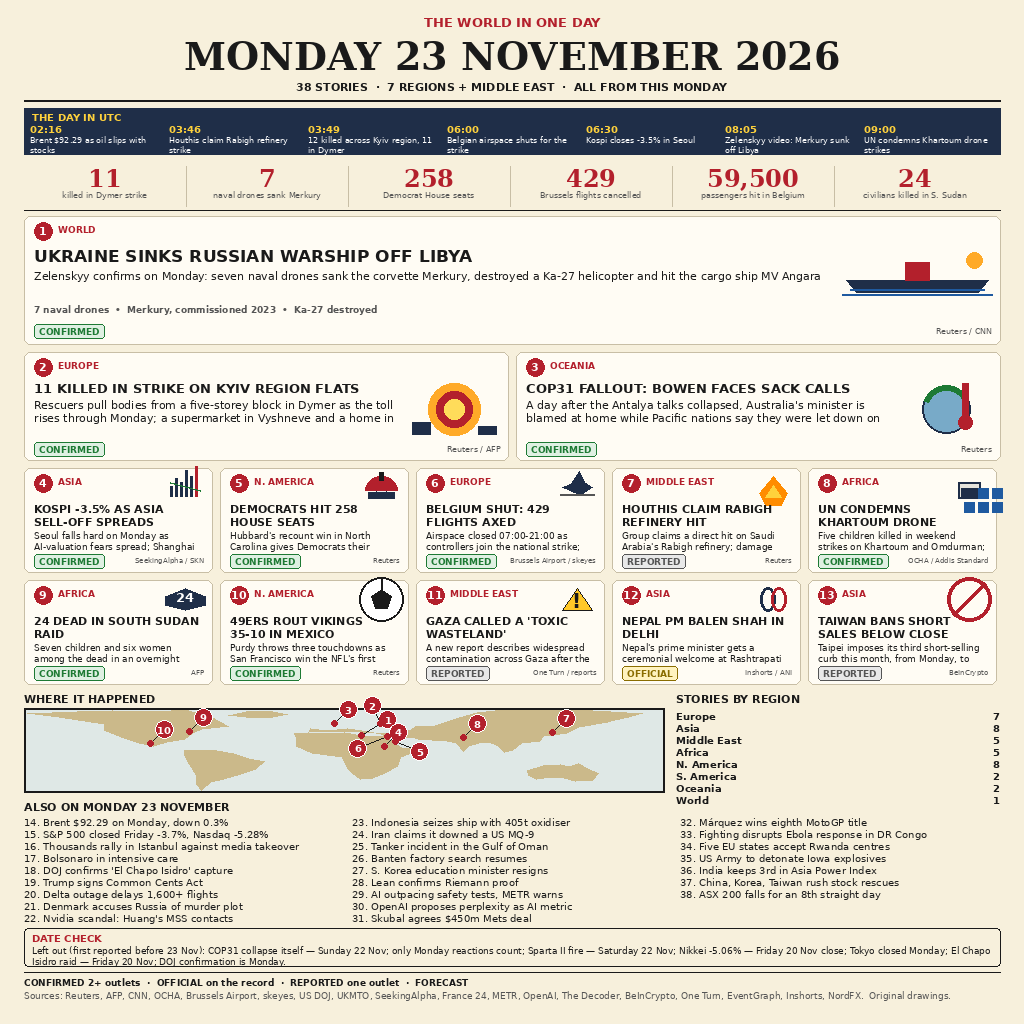
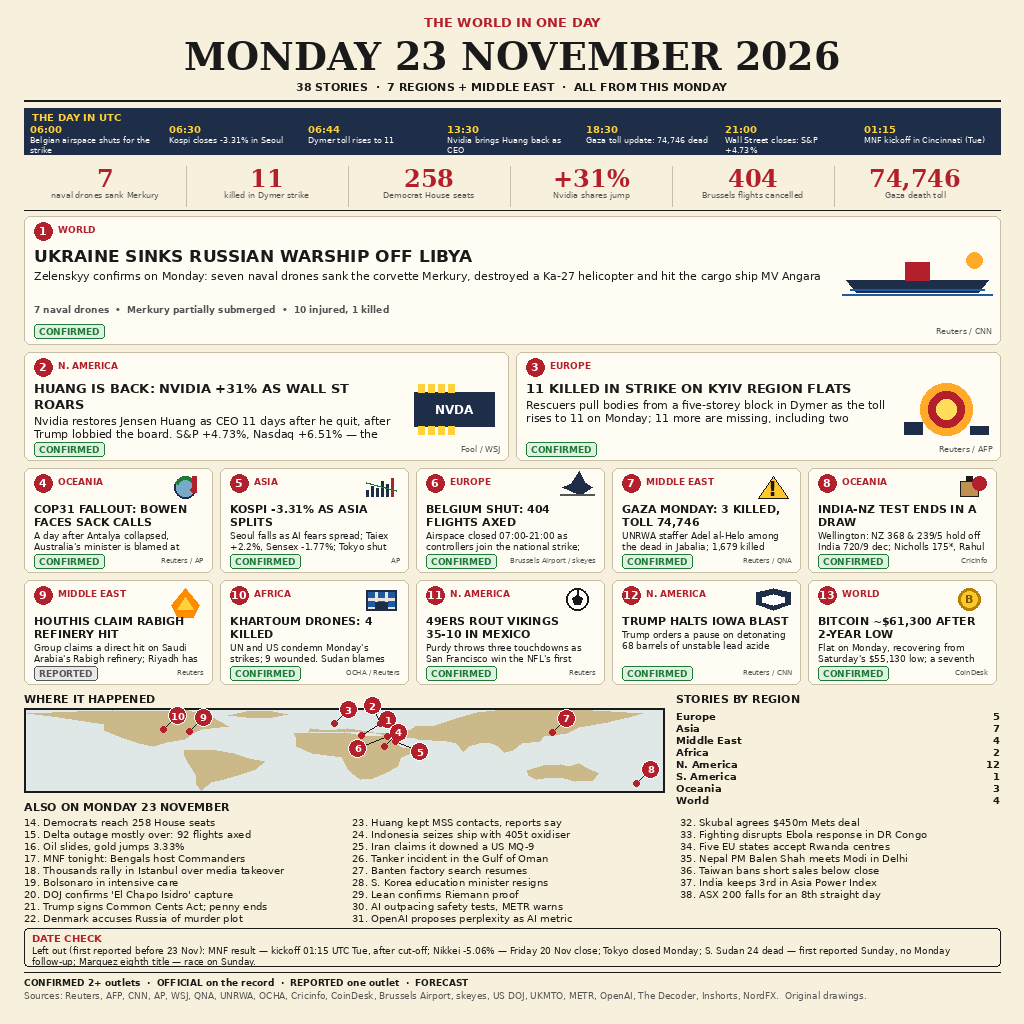
Final: 23 Nov 2026, 38 stories full-day, winner-template entry

diff --git a/render.py b/render.py
@@ -90,17 +90,20 @@ def art(draw, kind, box):
         draw.rectangle([x0 + 4, y1 - 14, x0 + 22, y1 - 2], fill=NAVY)
         draw.rectangle([x1 - 22, y1 - 10, x1 - 4, y1 - 2], fill=NAVY)
     elif kind == "globe":
-        draw.ellipse([cx - 24, cy - 24, cx + 24, cy + 24], fill=(120, 170, 200))
-        draw.ellipse([cx - 24, cy - 24, cx + 24, cy + 24], outline=NAVY, width=2)
-        draw.arc([cx - 24, cy - 24, cx + 24, cy + 24], 200, 340, fill=GREEN, width=6)
-        draw.rectangle([cx + 16, cy - 26, cx + 22, cy + 10], fill=RED)
-        draw.ellipse([cx + 12, cy + 6, cx + 26, cy + 20], fill=RED)
+        r = min(w, h) // 2 - 2
+        draw.ellipse([cx - r, cy - r, cx + r, cy + r], fill=(120, 170, 200))
+        draw.ellipse([cx - r, cy - r, cx + r, cy + r], outline=NAVY, width=2)
+        draw.arc([cx - r, cy - r, cx + r, cy + r], 200, 340, fill=GREEN, width=4)
+        draw.rectangle([cx + r - 4, cy - r, cx + r, cy + r // 2], fill=RED)
+        draw.ellipse([cx + r // 2, cy, cx + r, cy + r // 2], fill=RED)
     elif kind == "chart":
         bars = [10, 18, 14, 26, 20, 30]
+        scale = (h - 8) / 30.0
         bw = w // 7
         for i, b in enumerate(bars):
+            bh = max(2, int(b * scale))
             bx = x0 + 4 + i * bw
-            draw.rectangle([bx, y1 - 4 - b, bx + bw - 3, y1 - 4],
+            draw.rectangle([bx, y1 - 4 - bh, bx + bw - 3, y1 - 4],
                            fill=RED if i == len(bars) - 1 else NAVY)
         draw.line([(x0 + 4, y0 + 8), (x1 - 4, y0 + 16)], fill=GREEN, width=2)
     elif kind == "capitol":
@@ -121,25 +124,51 @@ def art(draw, kind, box):
         draw.polygon([(cx, cy - 2), (cx + 8, cy + 10), (cx - 8, cy + 10)],
                      fill=(255, 210, 60))
     elif kind == "building":
-        draw.rectangle([x0 + 8, y0 + 8, x1 - 8, y1 - 2], fill=(230, 228, 220),
+        draw.rectangle([x0 + 4, y0 + 4, x1 - 4, y1 - 2], fill=(230, 228, 220),
                        outline=NAVY, width=2)
+        gw, gh = (w - 12) // 3, (h - 12) // 2
         for i in range(3):
             for j in range(2):
-                draw.rectangle([x0 + 14 + i * 14, y0 + 14 + j * 14,
-                                x0 + 24 + i * 14, y0 + 24 + j * 14], fill=BLUE)
-        draw.rectangle([cx - 8, y1 - 12, cx + 8, y1 - 2], fill=NAVY)
+                wx, wy = x0 + 6 + i * (gw + 2), y0 + 6 + j * (gh + 2)
+                draw.rectangle([wx, wy, wx + gw - 2, wy + gh - 2], fill=BLUE)
+        draw.rectangle([cx - 6, y1 - 10, cx + 6, y1 - 2], fill=NAVY)
     elif kind == "shield":
-        draw.polygon([(cx, y0 + 2), (cx + 20, y0 + 10), (cx + 20, cy + 6),
-                      (cx, y1 - 2), (cx - 20, cy + 6), (cx - 20, y0 + 10)],
+        hw, hh = w // 2 - 2, h // 2 - 2
+        draw.polygon([(cx, y0 + 2), (cx + hw, y0 + 6), (cx + hw, cy + hh // 2),
+                      (cx, y1 - 2), (cx - hw, cy + hh // 2), (cx - hw, y0 + 6)],
                      fill=NAVY)
-        draw.text((cx, cy - 2), "24", font=font(SANS_B, 13), fill=(255, 255, 255),
+        draw.polygon([(cx, y0 + 8), (cx + hw - 6, y0 + 11),
+                      (cx + hw - 6, cy + hh // 2 - 2), (cx, y1 - 7),
+                      (cx - hw + 6, cy + hh // 2 - 2), (cx - hw + 6, y0 + 11)],
+                     fill=(255, 255, 255))
+    elif kind == "chip":
+        draw.rectangle([x0 + 6, y0 + 10, x1 - 6, y1 - 10], fill=NAVY)
+        for i in range(4):
+            draw.rectangle([x0 + 10 + i * 10, y0 + 2, x0 + 16 + i * 10, y0 + 10],
+                           fill=(255, 210, 60))
+            draw.rectangle([x0 + 10 + i * 10, y1 - 10, x0 + 16 + i * 10, y1 - 2],
+                           fill=(255, 210, 60))
+        draw.text((cx, cy), "NVDA", font=font(SANS_B, 12),
+                  fill=(255, 255, 255), anchor="mm")
+    elif kind == "bat":
+        draw.rectangle([cx - 3, y0 + 2, cx + 3, cy - 4], fill=INK)
+        draw.rectangle([cx - 9, cy - 6, cx + 9, y1 - 4], fill=(190, 145, 80),
+                       outline=INK)
+        draw.ellipse([x1 - 16, y0 + 2, x1 - 2, y0 + 16], fill=RED)
+    elif kind == "coin":
+        r = min(w, h) // 2 - 2
+        draw.ellipse([cx - r, cy - r, cx + r, cy + r], fill=(255, 200, 40),
+                     outline=(180, 130, 0), width=3)
+        draw.text((cx, cy), "B", font=font(SANS_B, r), fill=(120, 85, 0),
                   anchor="mm")
     elif kind == "ball":
-        draw.ellipse([cx - 22, cy - 22, cx + 22, cy + 22], fill=(255, 255, 255),
+        r = min(w, h) // 2 - 2
+        draw.ellipse([cx - r, cy - r, cx + r, cy + r], fill=(255, 255, 255),
                      outline=INK, width=2)
-        draw.polygon([(cx, cy - 10), (cx + 10, cy - 3), (cx + 6, cy + 9),
-                      (cx - 6, cy + 9), (cx - 10, cy - 3)], fill=INK)
-        draw.line([(cx, cy - 22), (cx, cy - 10)], fill=INK, width=2)
+        draw.polygon([(cx, cy - r // 2), (cx + r // 2, cy - r // 6),
+                      (cx + r // 3, cy + r // 2), (cx - r // 3, cy + r // 2),
+                      (cx - r // 2, cy - r // 6)], fill=INK)
+        draw.line([(cx, cy - r), (cx, cy - r // 2)], fill=INK, width=2)
     elif kind == "warning":
         draw.polygon([(cx, y0 + 2), (x1 - 4, y1 - 2), (x0 + 4, y1 - 2)],
                      fill=(255, 200, 40), outline=INK)

diff --git a/main.py b/main.py
@@ -1,8 +1,9 @@
 """Entry point: render the 23 November 2026 news image.
 
-Reads stories.json next to this file, draws the newspaper page with
-render.py and writes entry.png. Deterministic: same input bytes give
-the same output bytes. No network, no clocks, no randomness.
+Reads stories.json sitting next to this file, draws the newspaper
+page through render.py and writes entry.png. Deterministic: the same
+input bytes always give the same output bytes. No network, no clocks,
+no randomness, no bundled assets — system DejaVu fonts only.
 """
 import os
 import sys

diff --git a/README.md b/README.md
@@ -22,6 +22,8 @@ vector drawings made by the program itself — no photos.
 
 Lead story: Ukraine sinks the Russian corvette Merkury off Libya with
 seven naval drones, confirmed by President Zelenskyy on Monday.
+Second card: Nvidia brings Jensen Huang back as CEO and Wall Street
+posts its best day since April 2025.
 
 ## Run it
 
@@ -30,7 +32,7 @@ python3 main.py
 # writes entry.png next to main.py (or $OUTPUT_PATH)
 ```
 
-Python 3.13, Pillow only, no network. Deterministic: run it twice and
+Python 3.12, Pillow only, no network. Deterministic: run it twice and
 the bytes are identical.
 
 ## Files
@@ -44,7 +46,8 @@ the bytes are identical.
 ## Verification
 
 Every story in `stories.json` carries a source and a verification tag.
-Stories first reported before 23 November 2026 are listed in the
-DATE CHECK box and kept out of the story count. This is a prep draft
-built on a partial day (cut-off ~09:45 UTC); the final image is
-re-verified against the full day before submission.
+The research covers the full day of Monday 23 November 2026
+(cut-off 00:00 UTC Tuesday 24 Nov). Stories first reported before
+23 November are listed in the DATE CHECK box and kept out of the
+story count; the Monday-night NFL result falls after the cut-off and
+is listed as scheduled, not scored.
